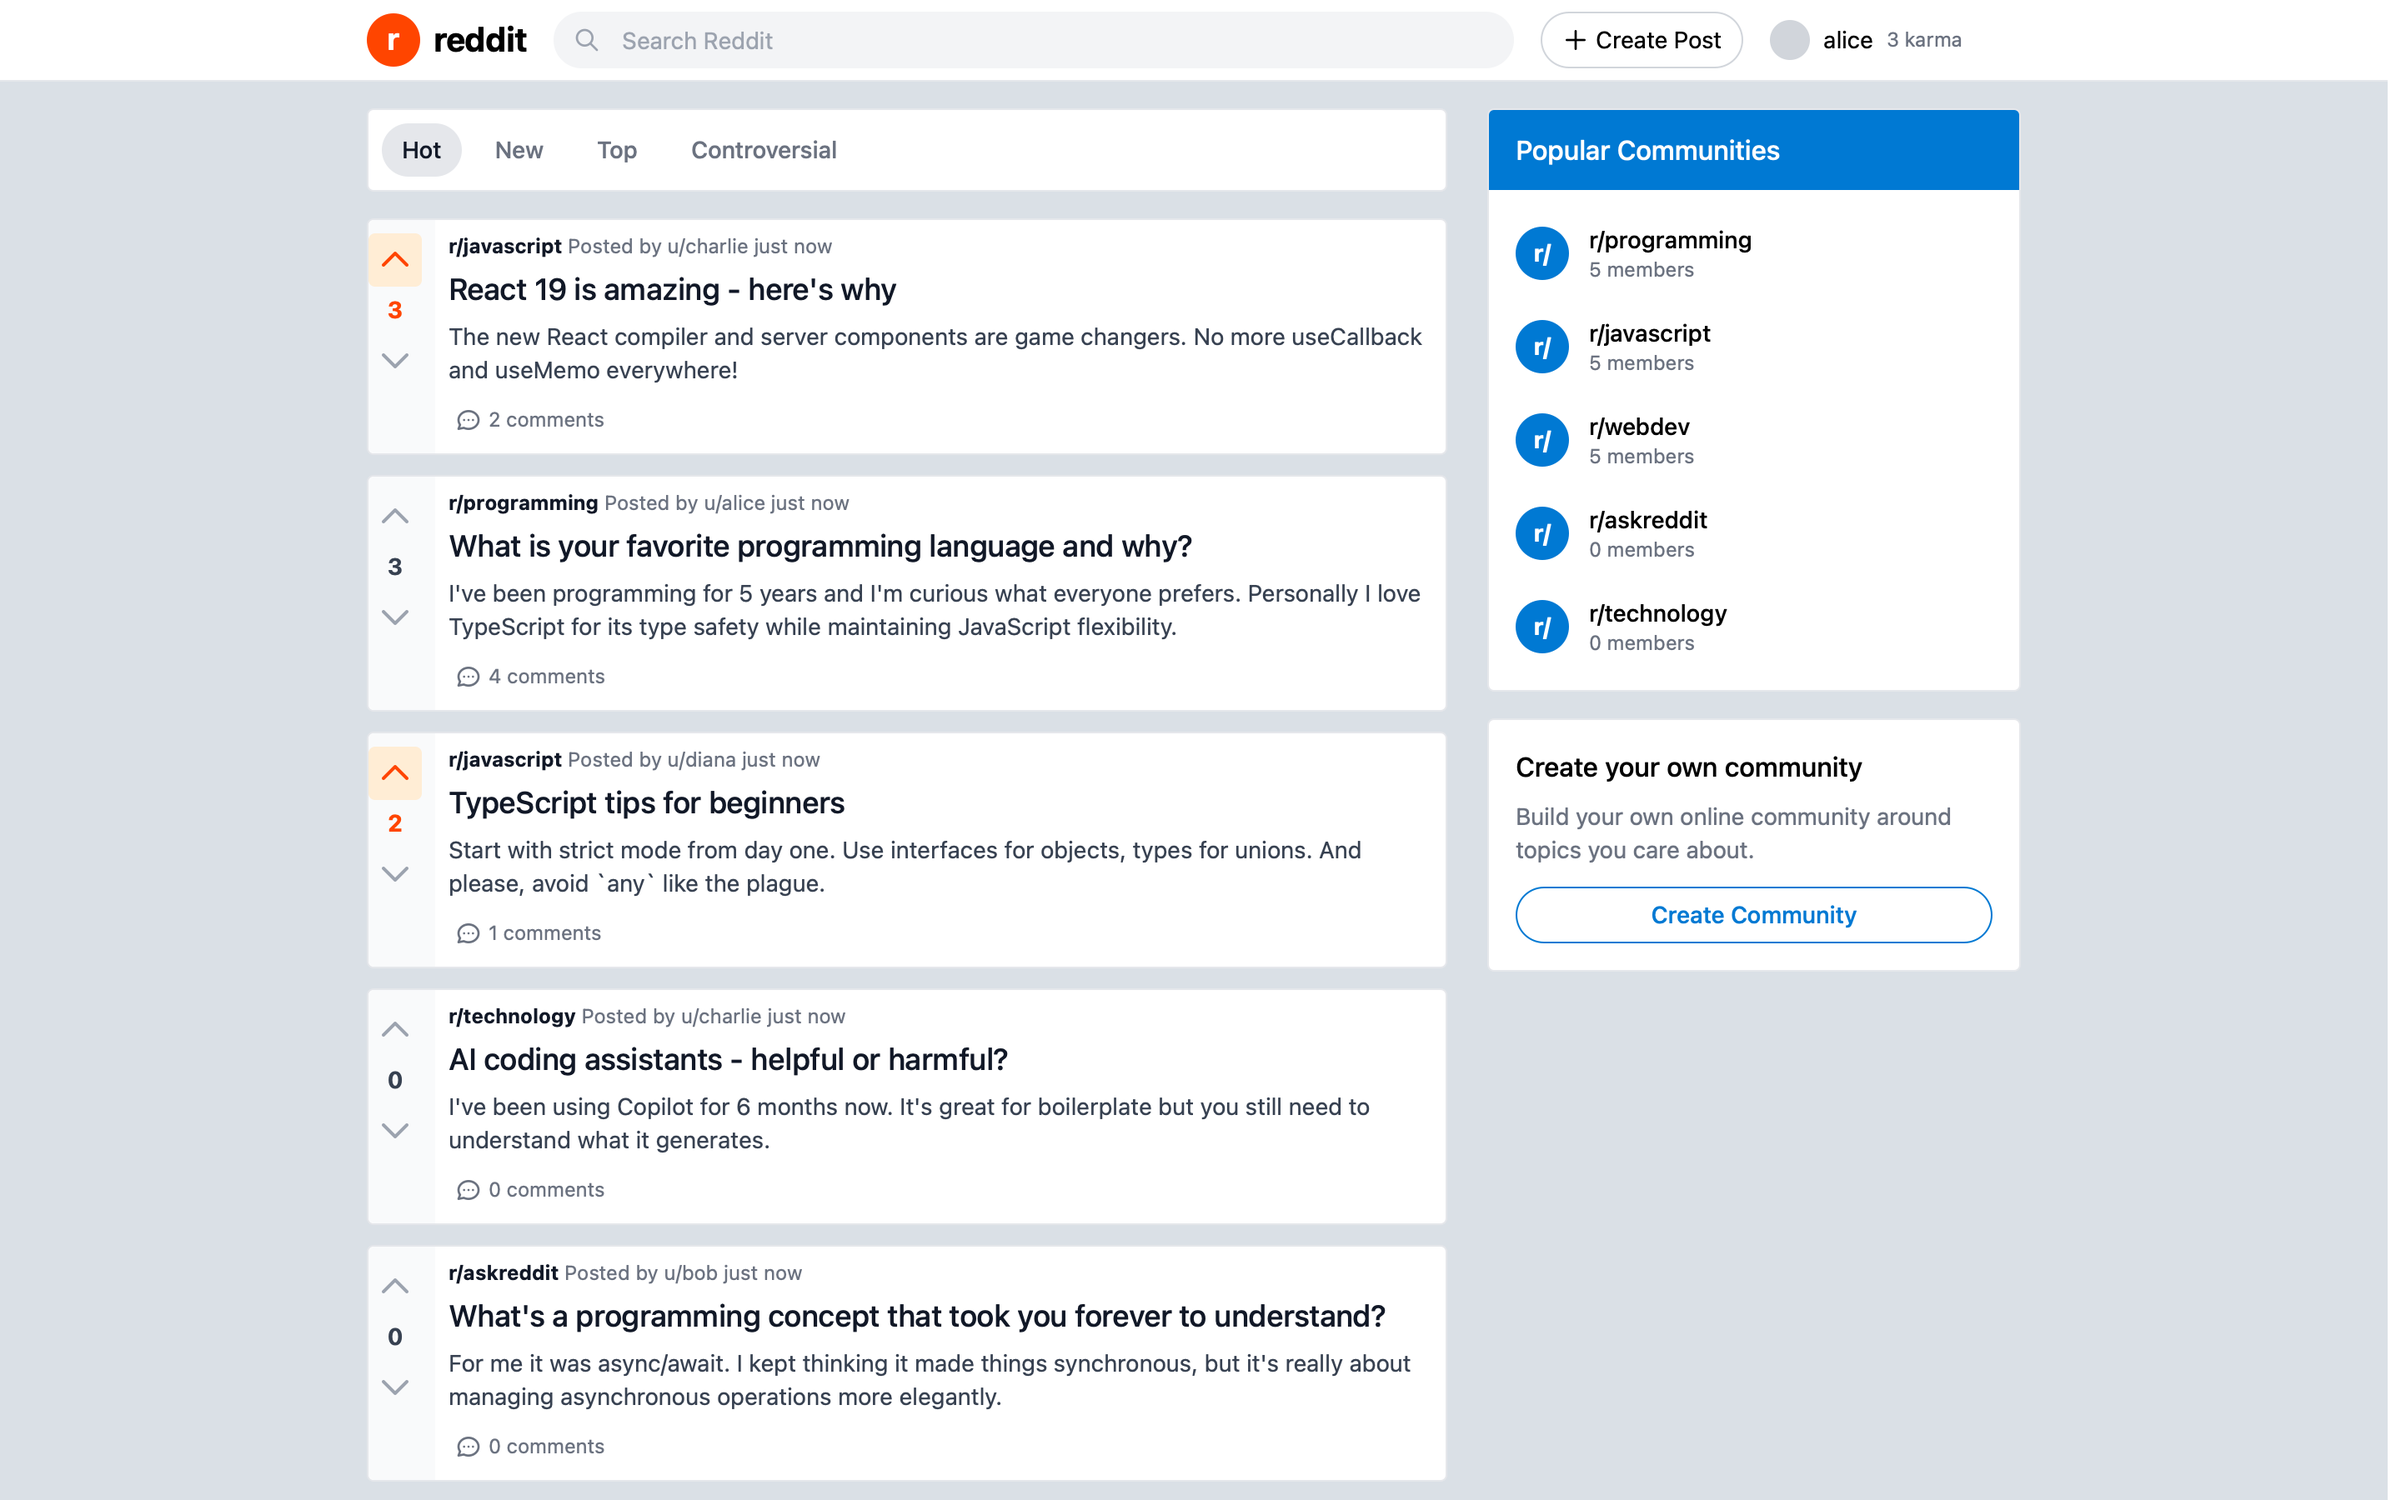
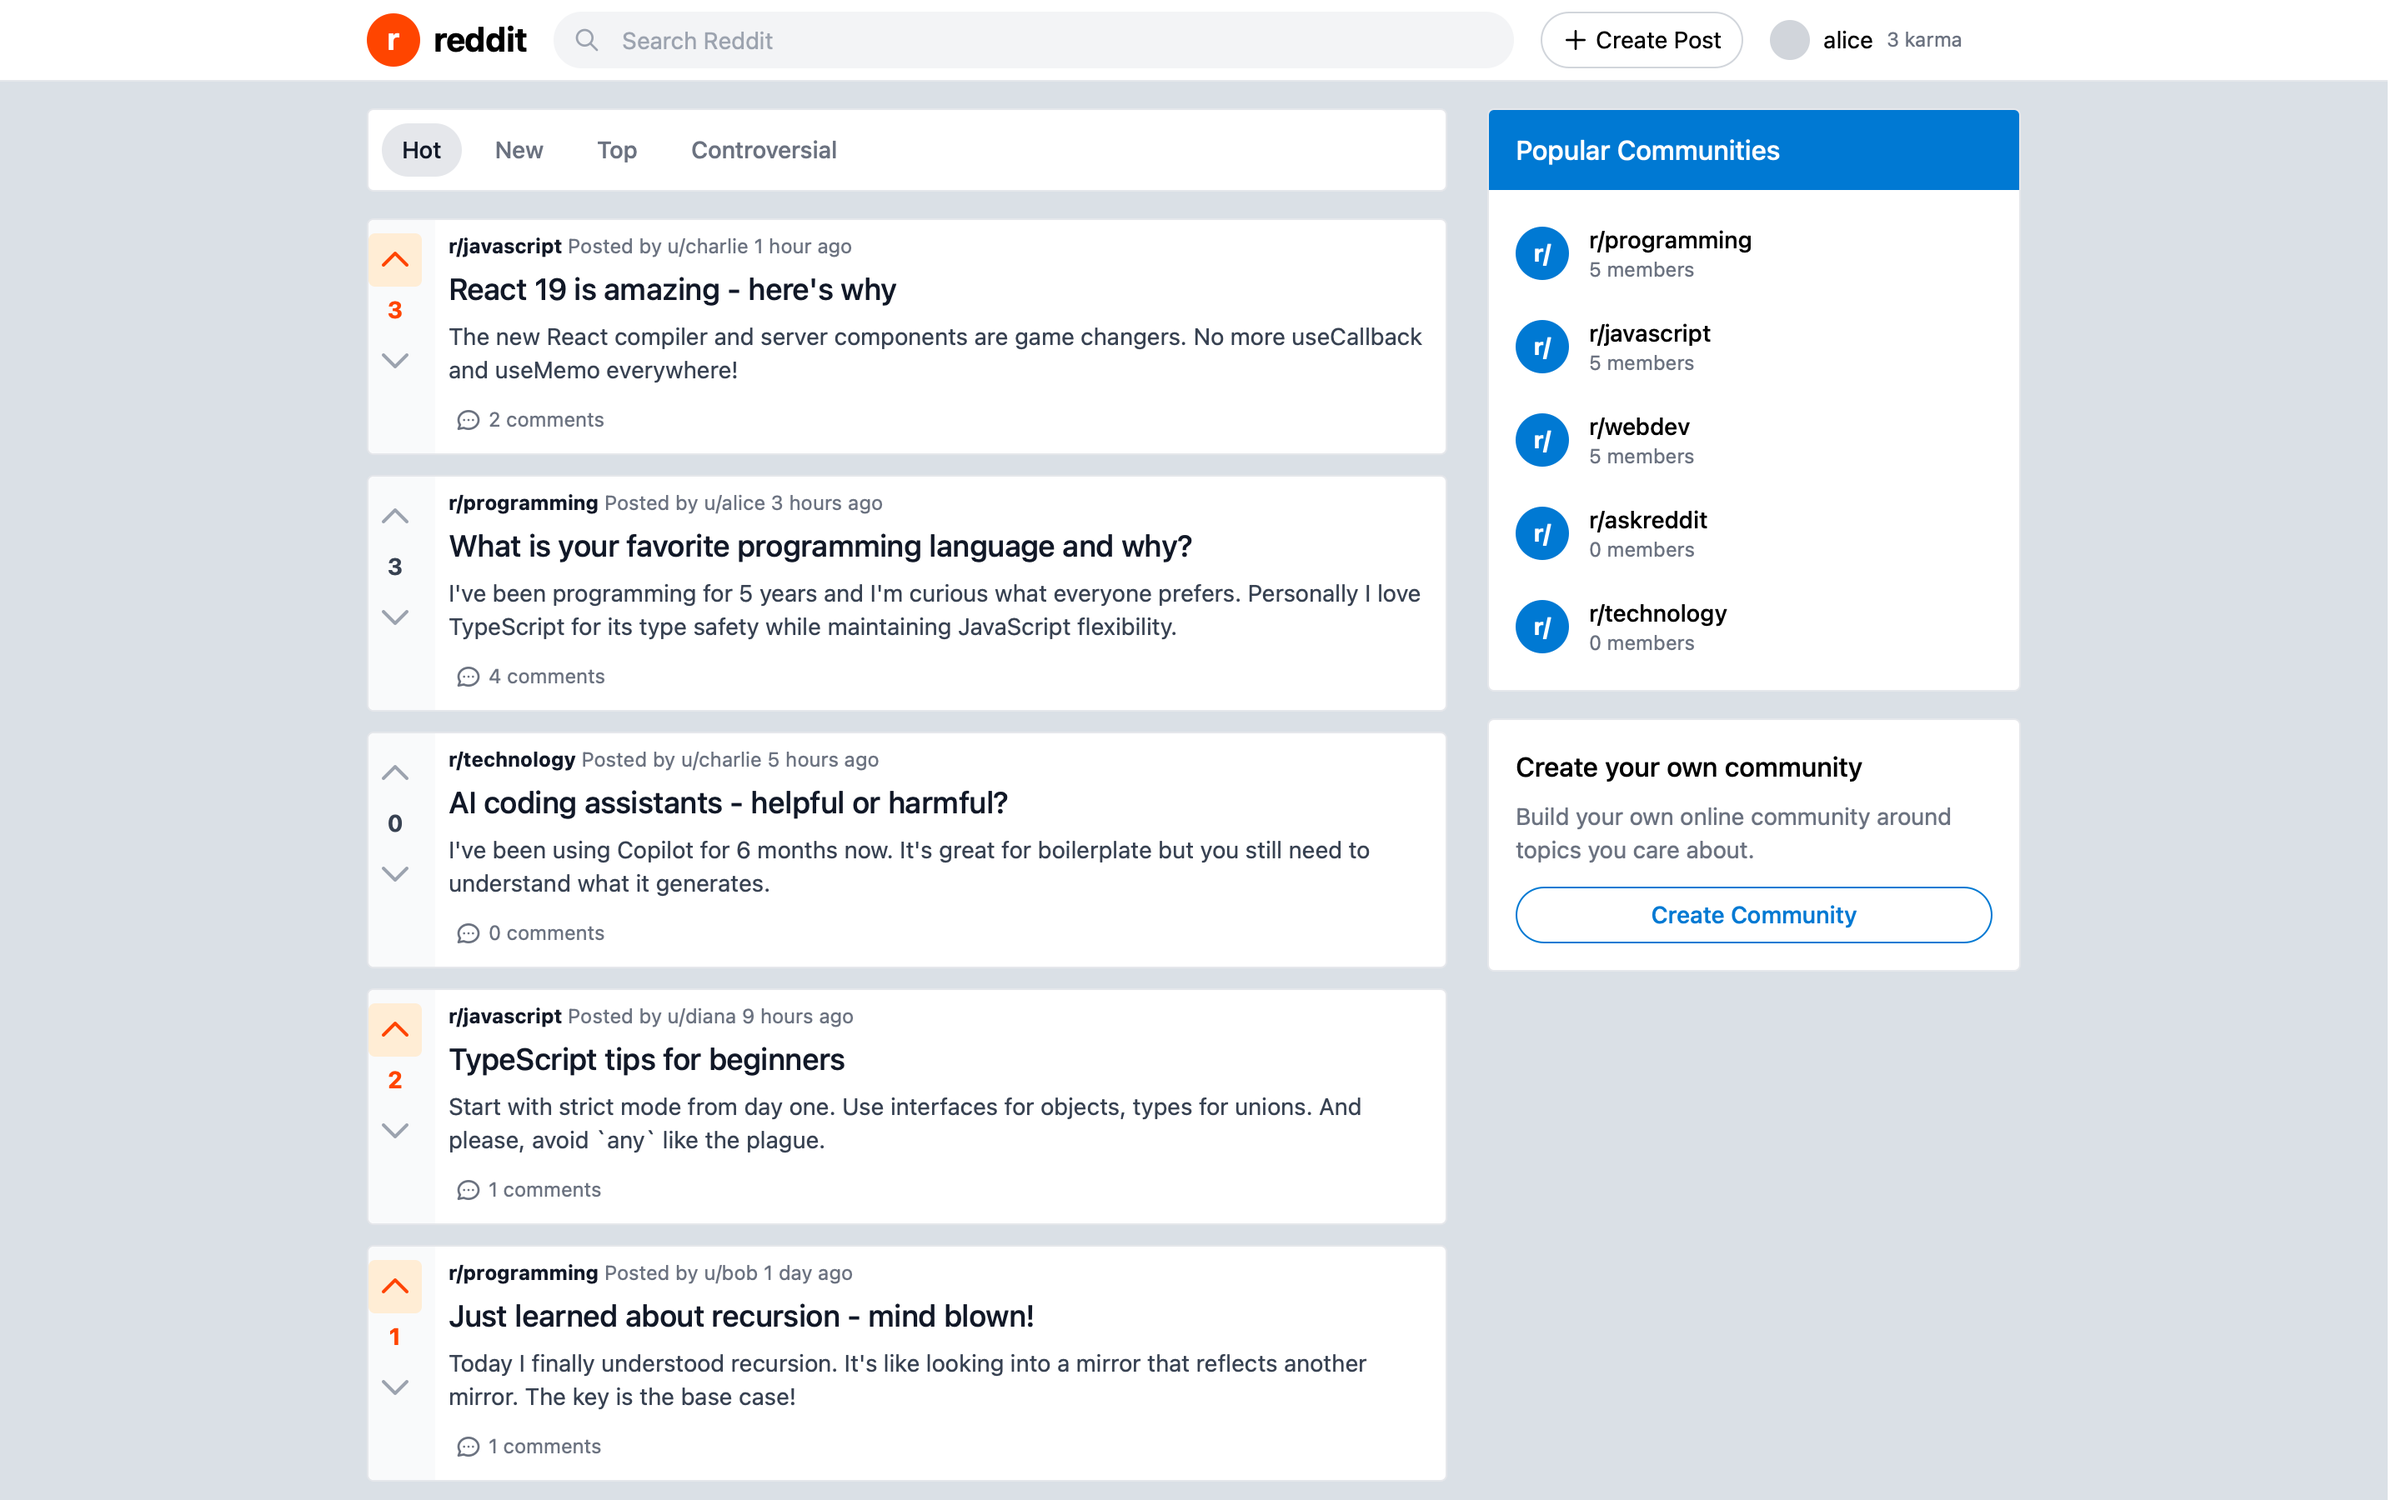
fixing stuff

diff --git a/reddit/frontend/src/routeTree.gen.ts b/reddit/frontend/src/routeTree.gen.ts
@@ -16,7 +16,7 @@ import { Route as LoginRouteImport } from './routes/login'
 import { Route as IndexRouteImport } from './routes/index'
 import { Route as UUsernameRouteImport } from './routes/u.$username'
 import { Route as SubredditsCreateRouteImport } from './routes/subreddits/create'
-import { Route as RSubredditRouteImport } from './routes/r.$subreddit'
+import { Route as RSubredditIndexRouteImport } from './routes/r.$subreddit.index'
 import { Route as RSubredditCommentsPostIdRouteImport } from './routes/r.$subreddit.comments.$postId'
 
 const SubmitRoute = SubmitRouteImport.update({
@@ -54,16 +54,16 @@ const SubredditsCreateRoute = SubredditsCreateRouteImport.update({
   path: '/subreddits/create',
   getParentRoute: () => rootRouteImport,
 } as any)
-const RSubredditRoute = RSubredditRouteImport.update({
-  id: '/r/$subreddit',
-  path: '/r/$subreddit',
+const RSubredditIndexRoute = RSubredditIndexRouteImport.update({
+  id: '/r/$subreddit/',
+  path: '/r/$subreddit/',
   getParentRoute: () => rootRouteImport,
 } as any)
 const RSubredditCommentsPostIdRoute =
   RSubredditCommentsPostIdRouteImport.update({
-    id: '/comments/$postId',
-    path: '/comments/$postId',
-    getParentRoute: () => RSubredditRoute,
+    id: '/r/$subreddit/comments/$postId',
+    path: '/r/$subreddit/comments/$postId',
+    getParentRoute: () => rootRouteImport,
   } as any)
 
 export interface FileRoutesByFullPath {
@@ -72,9 +72,9 @@ export interface FileRoutesByFullPath {
   '/register': typeof RegisterRoute
   '/search': typeof SearchRoute
   '/submit': typeof SubmitRoute
-  '/r/$subreddit': typeof RSubredditRouteWithChildren
   '/subreddits/create': typeof SubredditsCreateRoute
   '/u/$username': typeof UUsernameRoute
+  '/r/$subreddit/': typeof RSubredditIndexRoute
   '/r/$subreddit/comments/$postId': typeof RSubredditCommentsPostIdRoute
 }
 export interface FileRoutesByTo {
@@ -83,9 +83,9 @@ export interface FileRoutesByTo {
   '/register': typeof RegisterRoute
   '/search': typeof SearchRoute
   '/submit': typeof SubmitRoute
-  '/r/$subreddit': typeof RSubredditRouteWithChildren
   '/subreddits/create': typeof SubredditsCreateRoute
   '/u/$username': typeof UUsernameRoute
+  '/r/$subreddit': typeof RSubredditIndexRoute
   '/r/$subreddit/comments/$postId': typeof RSubredditCommentsPostIdRoute
 }
 export interface FileRoutesById {
@@ -95,9 +95,9 @@ export interface FileRoutesById {
   '/register': typeof RegisterRoute
   '/search': typeof SearchRoute
   '/submit': typeof SubmitRoute
-  '/r/$subreddit': typeof RSubredditRouteWithChildren
   '/subreddits/create': typeof SubredditsCreateRoute
   '/u/$username': typeof UUsernameRoute
+  '/r/$subreddit/': typeof RSubredditIndexRoute
   '/r/$subreddit/comments/$postId': typeof RSubredditCommentsPostIdRoute
 }
 export interface FileRouteTypes {
@@ -108,9 +108,9 @@ export interface FileRouteTypes {
     | '/register'
     | '/search'
     | '/submit'
-    | '/r/$subreddit'
     | '/subreddits/create'
     | '/u/$username'
+    | '/r/$subreddit/'
     | '/r/$subreddit/comments/$postId'
   fileRoutesByTo: FileRoutesByTo
   to:
@@ -119,9 +119,9 @@ export interface FileRouteTypes {
     | '/register'
     | '/search'
     | '/submit'
-    | '/r/$subreddit'
     | '/subreddits/create'
     | '/u/$username'
+    | '/r/$subreddit'
     | '/r/$subreddit/comments/$postId'
   id:
     | '__root__'
@@ -130,9 +130,9 @@ export interface FileRouteTypes {
     | '/register'
     | '/search'
     | '/submit'
-    | '/r/$subreddit'
     | '/subreddits/create'
     | '/u/$username'
+    | '/r/$subreddit/'
     | '/r/$subreddit/comments/$postId'
   fileRoutesById: FileRoutesById
 }
@@ -142,9 +142,10 @@ export interface RootRouteChildren {
   RegisterRoute: typeof RegisterRoute
   SearchRoute: typeof SearchRoute
   SubmitRoute: typeof SubmitRoute
-  RSubredditRoute: typeof RSubredditRouteWithChildren
   SubredditsCreateRoute: typeof SubredditsCreateRoute
   UUsernameRoute: typeof UUsernameRoute
+  RSubredditIndexRoute: typeof RSubredditIndexRoute
+  RSubredditCommentsPostIdRoute: typeof RSubredditCommentsPostIdRoute
 }
 
 declare module '@tanstack/react-router' {
@@ -198,34 +199,22 @@ declare module '@tanstack/react-router' {
       preLoaderRoute: typeof SubredditsCreateRouteImport
       parentRoute: typeof rootRouteImport
     }
-    '/r/$subreddit': {
-      id: '/r/$subreddit'
+    '/r/$subreddit/': {
+      id: '/r/$subreddit/'
       path: '/r/$subreddit'
-      fullPath: '/r/$subreddit'
-      preLoaderRoute: typeof RSubredditRouteImport
+      fullPath: '/r/$subreddit/'
+      preLoaderRoute: typeof RSubredditIndexRouteImport
       parentRoute: typeof rootRouteImport
     }
     '/r/$subreddit/comments/$postId': {
       id: '/r/$subreddit/comments/$postId'
-      path: '/comments/$postId'
+      path: '/r/$subreddit/comments/$postId'
       fullPath: '/r/$subreddit/comments/$postId'
       preLoaderRoute: typeof RSubredditCommentsPostIdRouteImport
-      parentRoute: typeof RSubredditRoute
+      parentRoute: typeof rootRouteImport
     }
   }
 }
-
-interface RSubredditRouteChildren {
-  RSubredditCommentsPostIdRoute: typeof RSubredditCommentsPostIdRoute
-}
-
-const RSubredditRouteChildren: RSubredditRouteChildren = {
-  RSubredditCommentsPostIdRoute: RSubredditCommentsPostIdRoute,
-}
-
-const RSubredditRouteWithChildren = RSubredditRoute._addFileChildren(
-  RSubredditRouteChildren,
-)
 
 const rootRouteChildren: RootRouteChildren = {
   IndexRoute: IndexRoute,
@@ -233,9 +222,10 @@ const rootRouteChildren: RootRouteChildren = {
   RegisterRoute: RegisterRoute,
   SearchRoute: SearchRoute,
   SubmitRoute: SubmitRoute,
-  RSubredditRoute: RSubredditRouteWithChildren,
   SubredditsCreateRoute: SubredditsCreateRoute,
   UUsernameRoute: UUsernameRoute,
+  RSubredditIndexRoute: RSubredditIndexRoute,
+  RSubredditCommentsPostIdRoute: RSubredditCommentsPostIdRoute,
 }
 export const routeTree = rootRouteImport
   ._addFileChildren(rootRouteChildren)

diff --git a/reddit/backend/src/db/seed.ts b/reddit/backend/src/db/seed.ts
@@ -114,17 +114,26 @@ const seed = async (): Promise<void> => {
       { subreddit: 'technology', author: 'charlie', title: 'AI coding assistants - helpful or harmful?', content: 'I\'ve been using Copilot for 6 months now. It\'s great for boilerplate but you still need to understand what it generates.' },
     ];
 
-    for (const post of posts) {
-      const now = new Date();
-      // Calculate initial hot score
+    // Hours since posting, one per entry above. Seeding everything at NOW()
+    // makes every post read "just now" and — more importantly — gives them all
+    // the same time term in the hot formula, so the ranking this project is
+    // built around has nothing to distinguish. Spreading the ages lets the
+    // decay actually order the feed.
+    const postAgesHours = [3, 26, 1, 9, 52, 30, 5];
+
+    for (const [i, post] of posts.entries()) {
+      const ageHours = postAgesHours[i] ?? 1;
+      const createdAt = new Date(Date.now() - ageHours * 3600 * 1000);
+      // Reddit's hot formula: the time term is fixed at insert, so it has to be
+      // computed from the post's real created_at rather than from "now".
       const epochSeconds = 1134028003;
-      const seconds = Math.floor(now.getTime() / 1000) - epochSeconds;
+      const seconds = Math.floor(createdAt.getTime() / 1000) - epochSeconds;
       const hotScore = seconds / 45000;
 
       await query(
-        `INSERT INTO posts (subreddit_id, author_id, title, content, hot_score)
-         VALUES ($1, $2, $3, $4, $5)`,
-        [subMap[post.subreddit], userMap[post.author], post.title, post.content, hotScore]
+        `INSERT INTO posts (subreddit_id, author_id, title, content, hot_score, created_at)
+         VALUES ($1, $2, $3, $4, $5, $6)`,
+        [subMap[post.subreddit], userMap[post.author], post.title, post.content, hotScore, createdAt]
       );
     }
     console.log('Created sample posts');

diff --git a/reddit/frontend/src/routes/r.$subreddit.index.tsx b/reddit/frontend/src/routes/r.$subreddit.index.tsx
@@ -7,7 +7,7 @@ import { SortTabs } from '../components/SortTabs';
 import { formatNumber } from '../utils/format';
 import { useAuthStore } from '../stores/authStore';
 
-export const Route = createFileRoute('/r/$subreddit')({
+export const Route = createFileRoute('/r/$subreddit/')({
   component: SubredditPage,
   validateSearch: (search: Record<string, unknown>): { sort?: SortType } => ({
     sort: (search.sort as SortType) || 'hot',

diff --git a/venmo/CLAUDE.md b/venmo/CLAUDE.md
@@ -46,6 +46,11 @@ Schema-present but not wired as features: **bill splitting** (`splits` / `split_
 - **Seed password normalization (repo-wide):** demo users `alice / bob / charlie / diana / admin` all log in with **`password123`**; README table matches. `bcryptjs` is the verify path (not native `bcrypt`).
 - **Answer-file depth pass:** `system-design-answer-backend.md` was ~232 lines (under the 300 floor); added grounded sections for the request/approval and cashout flows, security/auth, capacity estimation, an exactly-once recap, and a metrics table to bring it into range without diluting the existing (strong) deep dives.
 - **Doc drift fixes (this pass):** the old CLAUDE.md used banned Phase-1/2/3/4 checklists and referred to `transfer.js` — the code is TypeScript (`backend/src/services/transfer.ts`). Rewritten to real architecture + decisions; file references corrected. Verified `architecture.md` already frames RabbitMQ/Cassandra correctly as *production* extensions while the local build does synchronous Postgres fan-out — left as-is.
+- **2026-08-03 — 1 of 5 screens captured; the seed never ran and login could never succeed.** Three faults:
+  1. **48 seed UUID literals carried a mnemonic prefix** (`pm-`, `tr-`, `pr-`, `tc-`, `co-` glued onto a UUID), making them three characters too long and non-hex. Postgres rejected them outright. Folded each prefix into the first group as a distinct hex tag so values stay unique and every foreign-key reference rewrites identically.
+  2. **12 more were not UUID-shaped at all** — `fi-01-alice` and friends sitting in UUID columns. Mapped each to an md5-derived UUID so the mapping is stable across re-seeds and all references agree.
+  3. **The login form is a single "Username or Email" `type="text"` field**, but the screenshot config searched for `input[name='email'], input[type='email']` — which matched nothing, so every authenticated screen failed on a selector timeout. Config corrected, and the inputs were given proper `name`/`autoComplete` attributes (`Input` spreads props, so this is free and makes the form autofill-friendly as well as testable).
+- **Screenshots:** 1 → 5 (login, social feed with likes/comments, pay, request, wallet).
 - **CI note (repo-wide):** the GitHub Actions smoke-test workflow was removed; don't treat it as active.
 
 ## Open Questions
